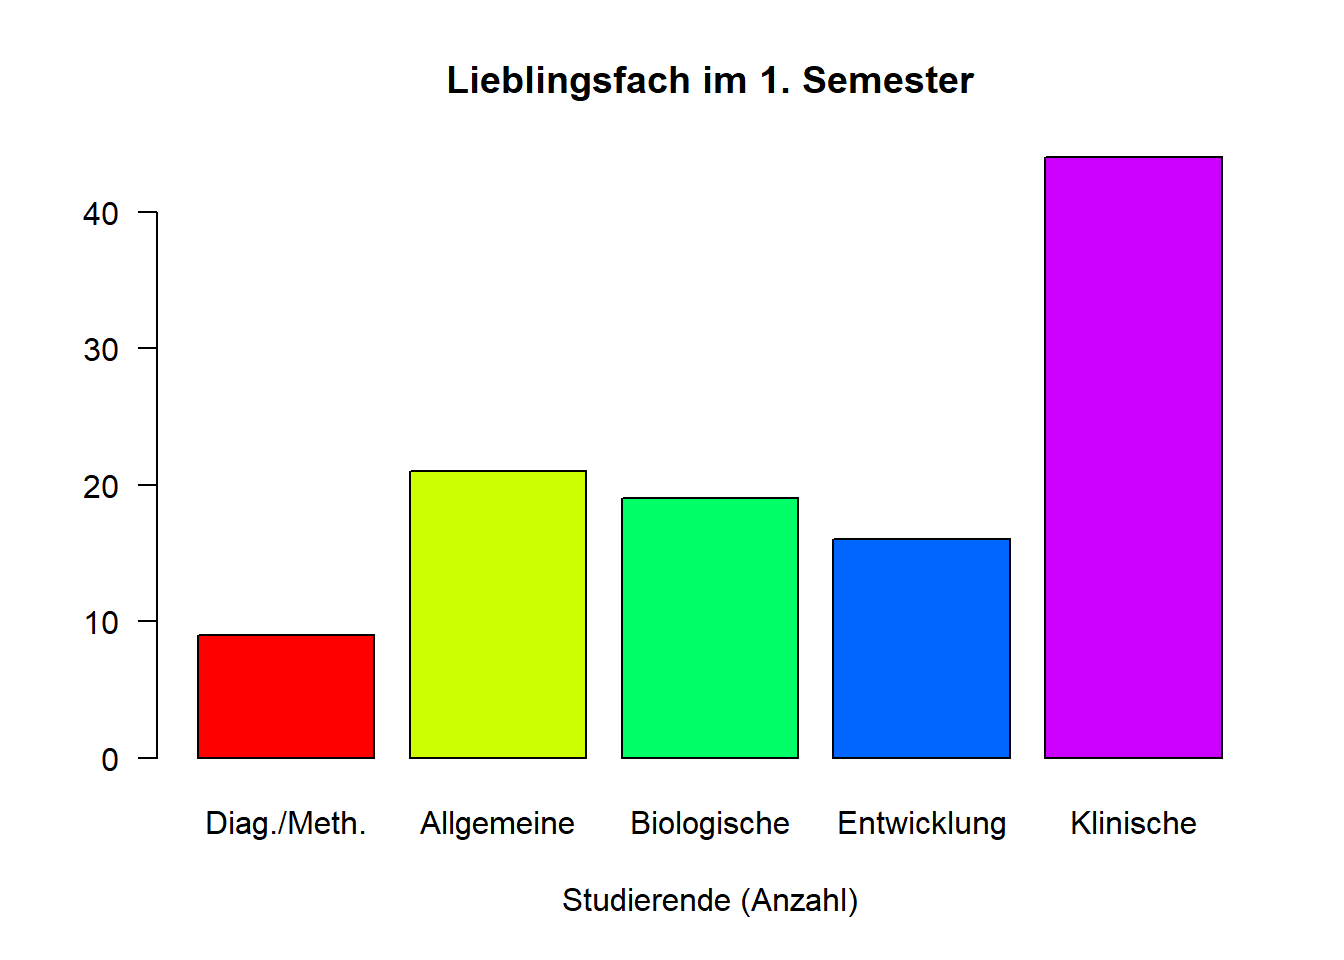
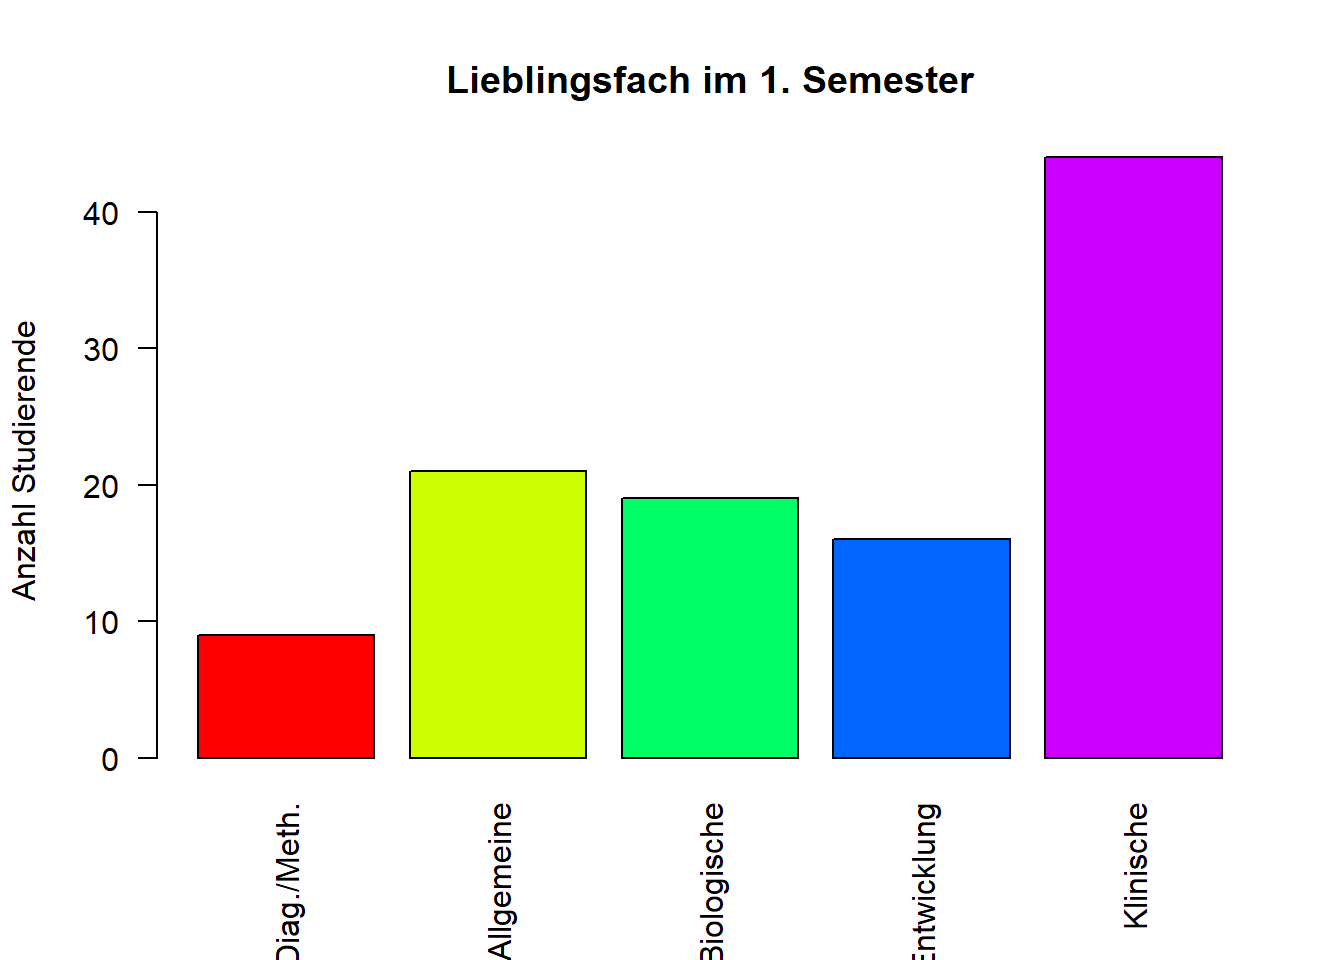
Change some screenshots from barplots.

diff --git a/content/post/2021-09-21-deskriptivstatistik-fuer-nominal-und-ordinalskalen.html b/content/post/2021-09-21-deskriptivstatistik-fuer-nominal-und-ordinalskalen.html
@@ -287,9 +287,9 @@ prop.table(tab)         # Relative</code></pre>
 <p><strong>Beispiel für angepasste Abbildung</strong></p>
 <pre class="r"><code>barplot(tab,
  col = rainbow(5),
- xlab = &#39;Studierende (Anzahl)&#39;,
+ ylab = &#39;Anzahl Studierende&#39;,
  main = &#39;Lieblingsfach im 1. Semester&#39;,
- las=1)</code></pre>
+ las = 2)</code></pre>
 <p><img src="/post/2021-09-21-deskriptivstatistik-fuer-nominal-und-ordinalskalen_files/figure-html/unnamed-chunk-16-1.png" width="672" /></p>
 <p><strong>Grafiken speichern</strong></p>
 <p>Es gibt zwei Möglichkeiten, um in <code>R</code> erzeugte Grafiken als Bilddatei zu speichern: manuell und per Funktion.</p>
@@ -302,12 +302,12 @@ prop.table(tab)         # Relative</code></pre>
 <p><img src="/post/Screenshot-jpeg.PNG" /></p>
 <p><em>Möglichkeit 2: Speichern mit der Funktion <code>jpeg("Dateiname.jpg")</code></em></p>
 <p>Die Grafikerstellung folgt auf die <code>jpeg()</code>-Funktion und wird mit der Funktion <code>dev.off()</code> abgeschlossen.</p>
-<pre class="r"><code>jpeg(&quot;Mein-Boxplot.jpg&quot;, width=15, height=10, units=&quot;cm&quot;, res=150)
+<pre class="r"><code>jpeg(&quot;Mein-Barplot.jpg&quot;, width=15, height=10, units=&quot;cm&quot;, res=150)
 barplot(tab,
- col = rainbow(20),
- xlab = &#39;Studierende (Anzahl)&#39;,
+ col = rainbow(5),
+ ylab = &#39;Anzahl Studierende&#39;,
  main = &#39;Lieblingsfach im 1. Semester&#39;,
- las=1)
+ las = 2)
 dev.off()</code></pre>
 <p>Auch hier gilt: Wenn kein Pfad spezifiziert wurde, liegt die Datei in Ihrem Arbeitsverzeichnis. In der Funktion <code>jpeg()</code> kann mit den Argumenten <code>width</code>, <code>height</code>, <code>units</code> und <code>res</code> Größe, Größenverhältnis und Auflösung gesteuert werden.</p>
 <hr />
